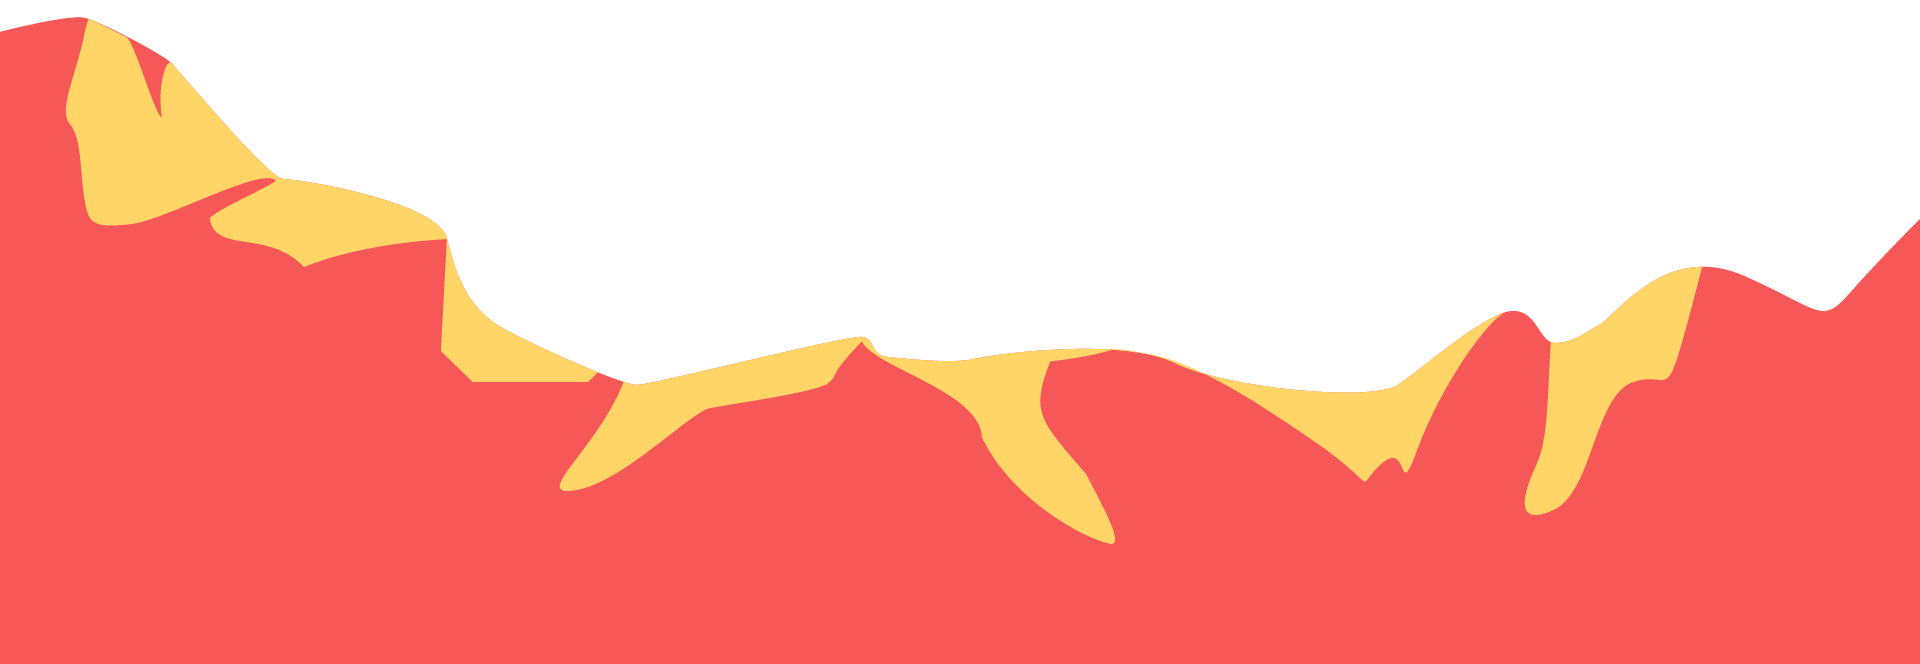
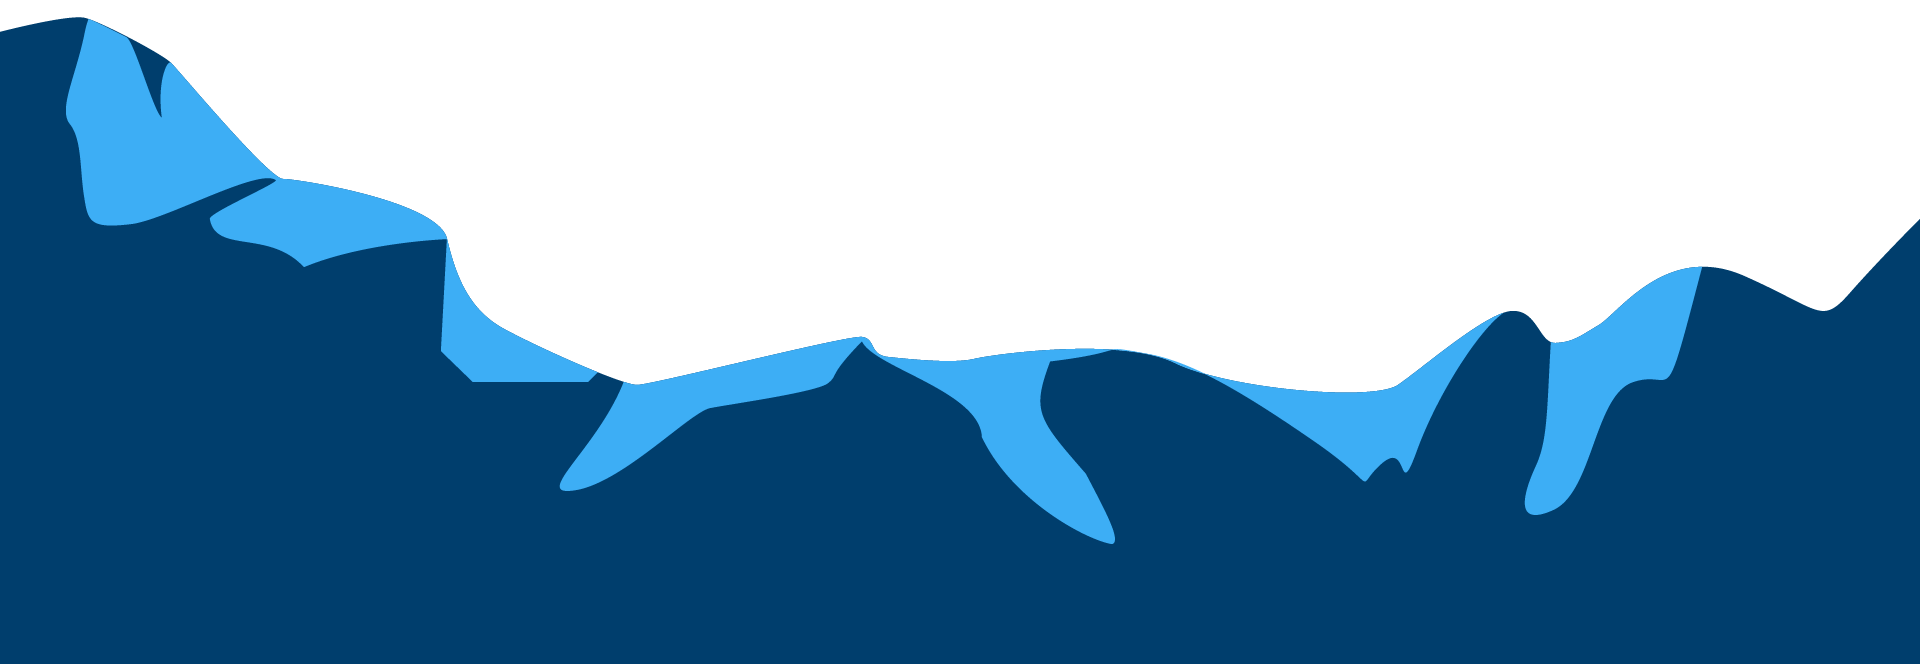
color update

diff --git a/css/variables.css b/css/variables.css
@@ -1,5 +1,5 @@
 :root {
-	--yellow: #F6E757;
+	--yellow: #fad850;
 	--red: #F65757;
 	--secondary-color: #475153;
 	--white: #C0CCCE;

diff --git a/css/page2.css b/css/page2.css
@@ -1,4 +1,4 @@
 
 #page-2 {
-	background-color: #093C45;
+	background-color: #092F47;
 }
